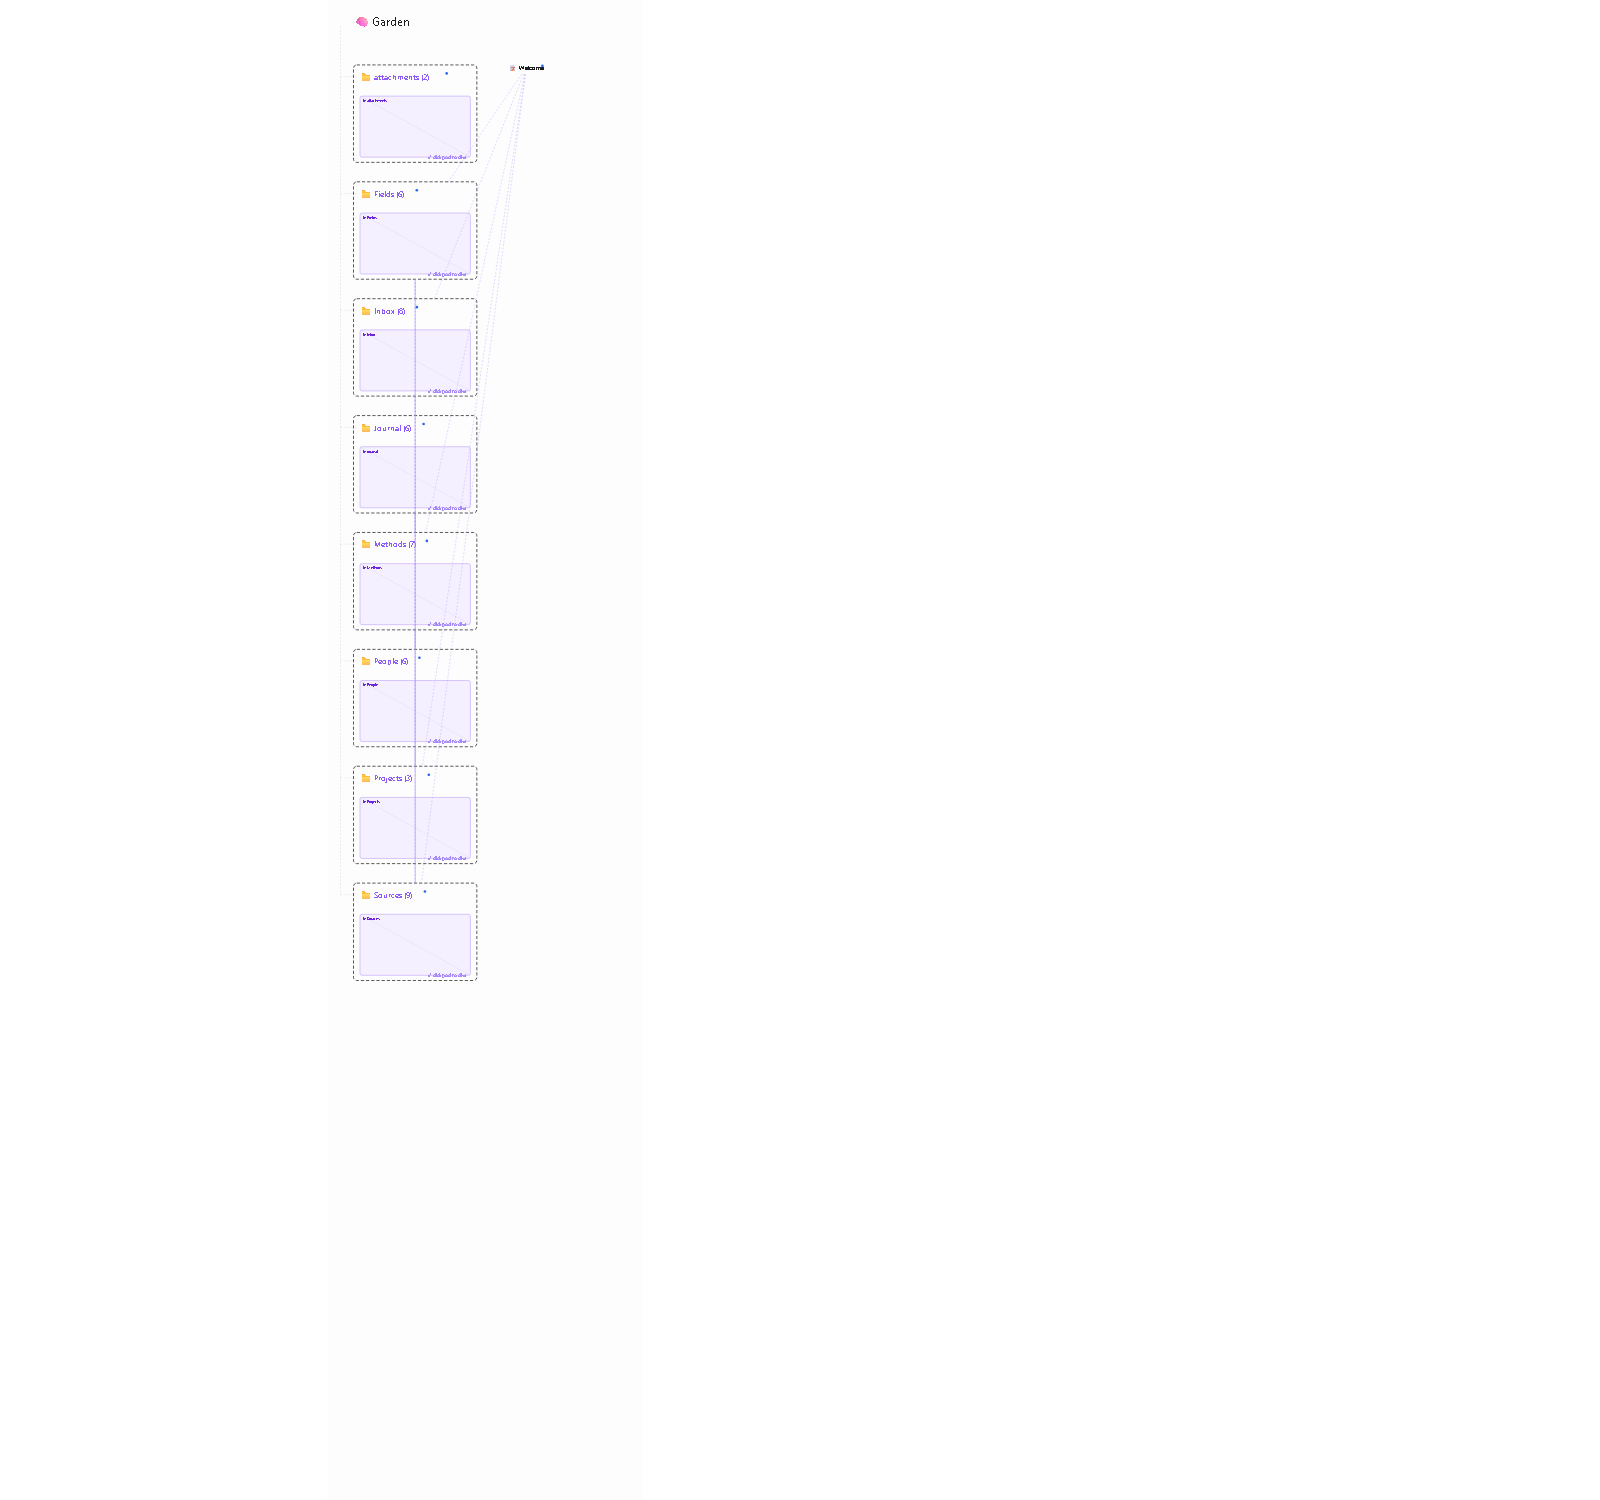
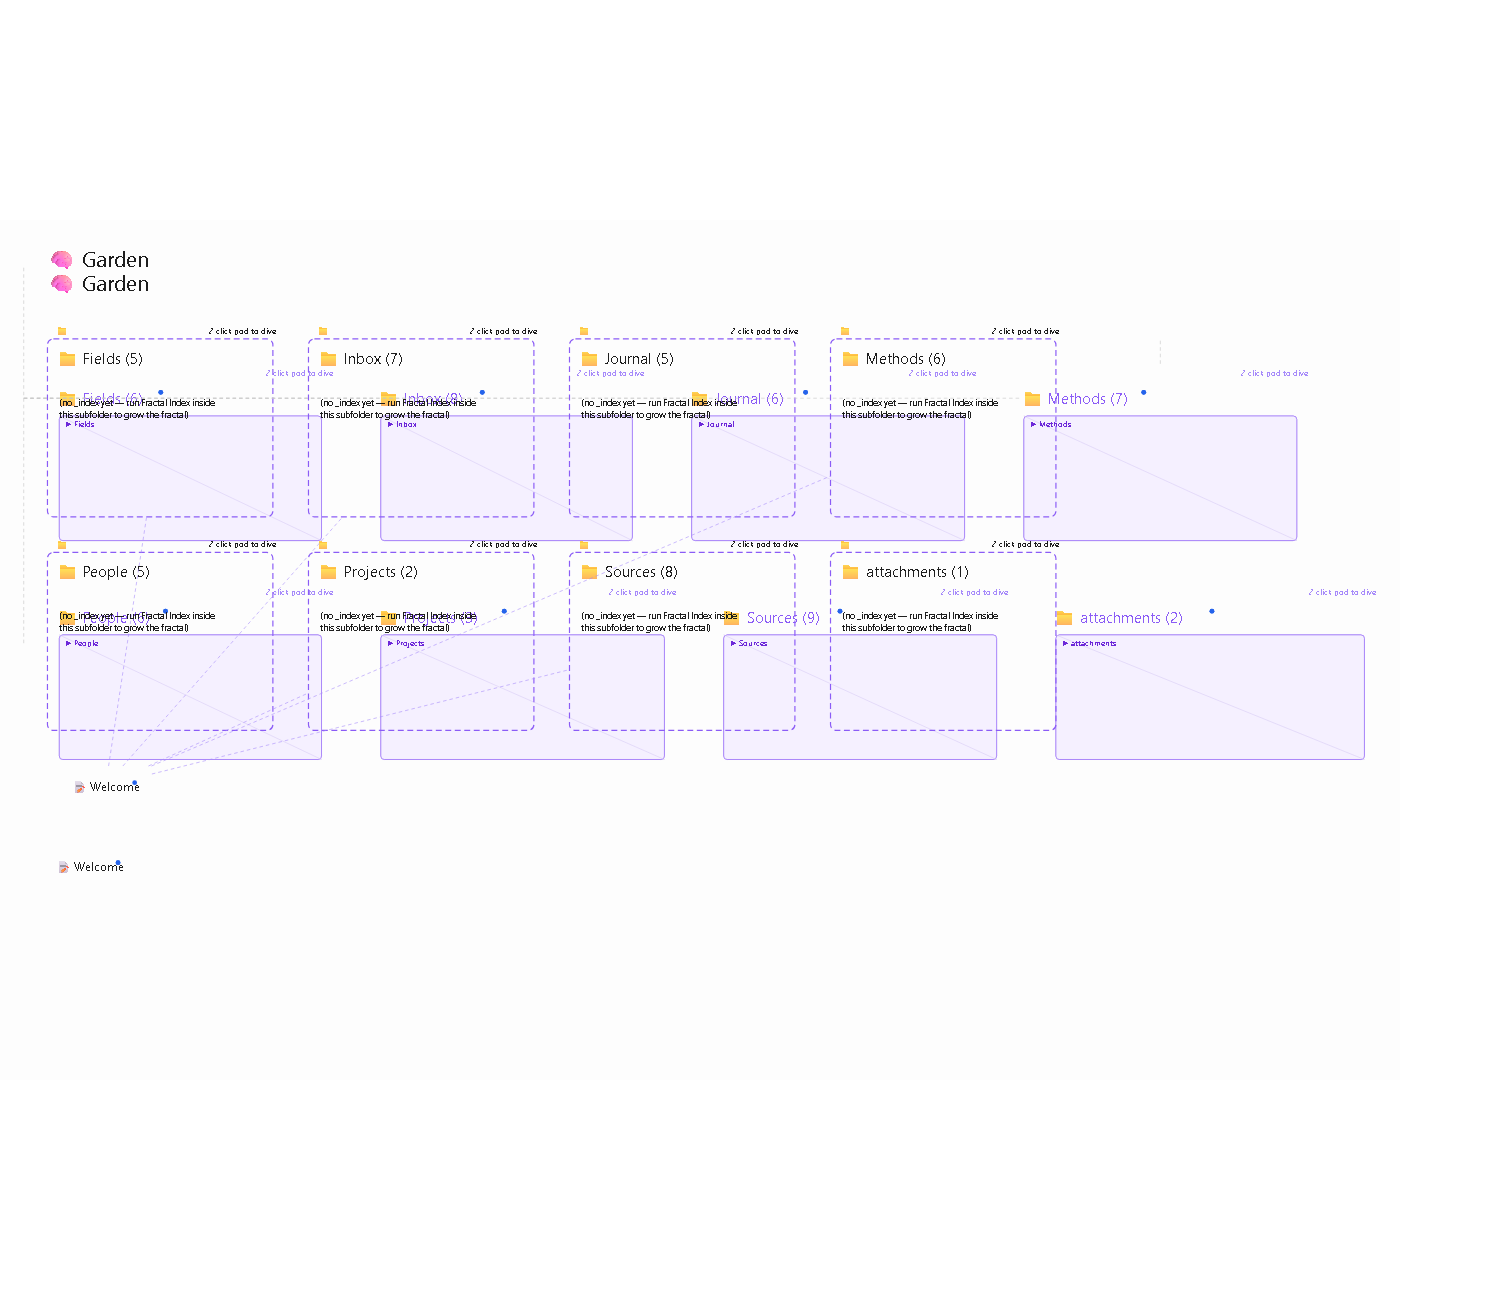
demo GIF: automated capture of the live brain (dive, grid, dependency web)
13s animated demo recorded end-to-end by dev-tools/record-demo.mjs:
overview of the balanced-grid Garden map, pod-dive into Fields, deeper
into Topics, surface, second dive, and the Projects dependency web.
Also: refreshed scripts (balanced grid, relationship arrows) and the
rebuilt gallery overview.

diff --git a/README.md b/README.md
@@ -4,7 +4,7 @@
 
 Turn any folder into a stable, zoomable, infinitely-nestable visual map — with positions that never move out from under you, and arrows that come from your *actual* wikilinks.
 
-![demo](docs/images/garden-root.png)
+![demo](docs/images/demo.gif)
 
 > Every image in this README is rendered from a real generated map. See the full [Gallery](docs/GALLERY.md).
 
